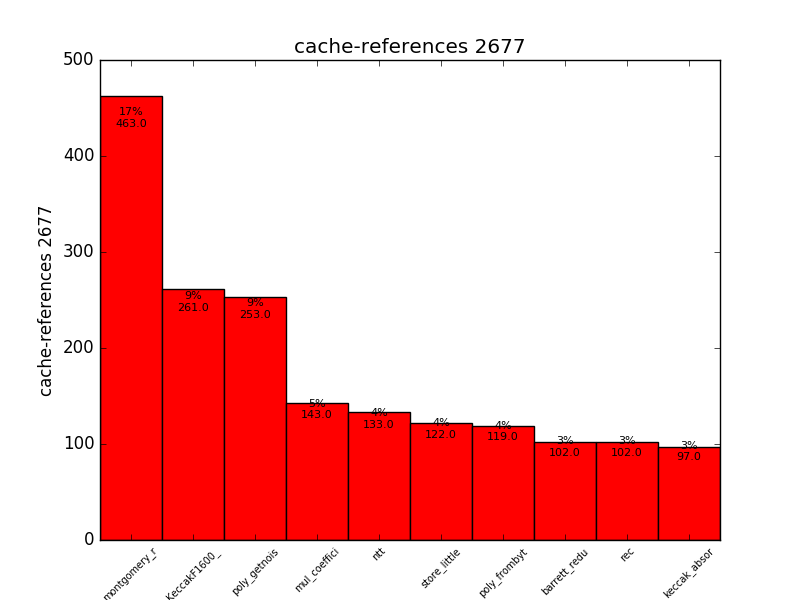
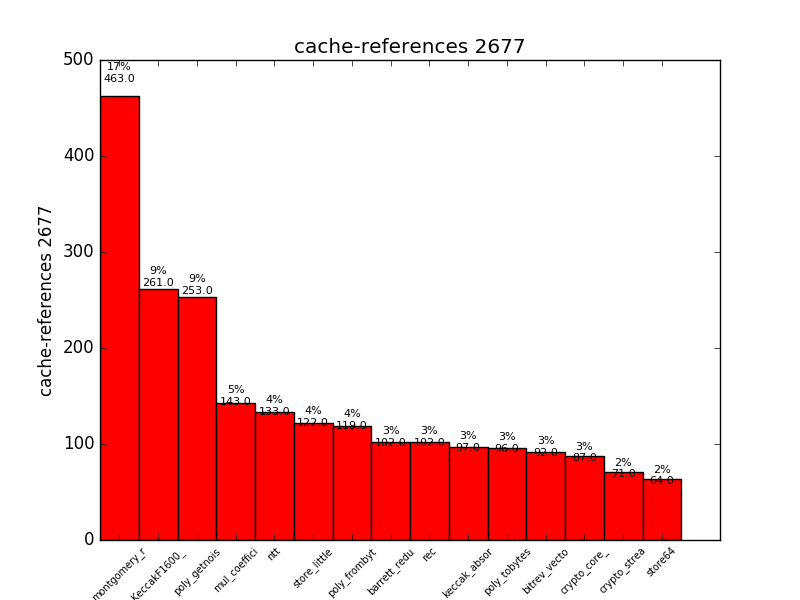
for cache-miss, number of miss divide by number of access per function is plotted

Changed region(s): [[0.0938, 0.15, 0.9062, 1.0], [0.125, 0.09, 0.1562, 0.15]]

diff --git a/extract-data.py b/extract-data.py
@@ -13,7 +13,7 @@ os.system("mkdir "+ Directory_Save_Plots)
 import random
 plt.close('all')
 NUM_RUNS = 5
-MAX_FUNC = 10 # maximum number of functions that we need to analyze
+MAX_FUNC = 15 # maximum number of functions that we need to analyze
 COUNT_EVENT = 1000 # number of events to trigger a sample
 Variants = ["Cycles"
             ,"cache-references"
@@ -70,21 +70,43 @@ def Read_Results (Raw_Data):
 Final_Dict = Read_Results("All_Data")
 
 
-j =0
+#to retrieve number of cache misses/cache references in each function!!!
 for key in Final_Dict.keys():
-    print "----------------------------------------------------------------"
+    if key.__contains__("cache-references"):
+        key_cache_references = key
+
+Total_Events = []
+j =0
+f_write = open("Events",'w')
+for key in Final_Dict.keys():
+    if key.__contains__("cache-misses"):
+        key_cache_misses = key
+    elif key.__contains__("cache-references"):
+        key_cache_references = key
+    f_write.write( "---------------------------------")
     value = []
     x_lable = []
-    print key
-    Total_Events = int(filter(str.isdigit, key))
+    f_write.write(key+"\n")
 
+    Total_Events = []
     for key_i in range(0, min (MAX_FUNC, len(Final_Dict[key]))):
-        print (Final_Dict[key])[key_i][0],((Final_Dict[key])[key_i][1])[0]
+        tmp_str = str ((Final_Dict[key])[key_i][0]) +"  "+ str (((Final_Dict[key])[key_i][1])[0]) +"\n"
+        f_write.write (tmp_str)
         value.append(((Final_Dict[key])[key_i][1])[0])
         x_lable.append(((Final_Dict[key])[key_i][0])[0:12])
+
+        if key.__contains__("cache-misses"):
+            Total_Events.append(((Final_Dict[key_cache_references])[key_i][1])[0])
+        else:
+            Total_Events.append(int(filter(str.isdigit, key)))
     y_lable = key
     title   = key
+  #  Total_Events[key] = int(filter(str.isdigit, key))
+   # if key.__contains__("cache-misses"):
+
     Plot_Bar(value,min(MAX_FUNC,len(Final_Dict[key])),x_lable, y_lable,title,Total_Events)
    # plt.show()
     plt.savefig (Directory_Save_Plots+"/"+(key)+'.png')
    # savefig('foo.png')
+f_write.close()
+

diff --git a/aa.py b/aa.py
@@ -1,16 +1,27 @@
-import numpy as np
 import matplotlib.pyplot as plt
+import numpy as np
 
-def f(t):
-    return np.exp(-t) * np.cos(2*np.pi*t)
+# Simple data to display in various forms
+x = np.linspace(0, 2 * np.pi, 400)
+y = np.sin(x ** 2)
 
-t1 = np.arange(0.0, 5.0, 0.1)
-t2 = np.arange(0.0, 5.0, 0.02)
+plt.close('all')
 
-plt.figure(6)
-plt.subplot(211)
-plt.plot(t1, f(t1), 'bo', t2, f(t2), 'k')
 
-plt.subplot(212)
-plt.plot(t2, np.cos(2*np.pi*t2), 'r--')
+# Four axes, returned as a 2-d array
+f, axarr = plt.subplots(2, 2)
+axarr[0, 0].plot(x, y)
+axarr[0, 0].set_title('Axis [0,0]')
+axarr[0, 1].scatter(x, y)
+axarr[0, 1].set_title('Axis [0,1]')
+axarr[1, 0].plot(x, y ** 2)
+axarr[1, 0].set_title('Axis [1,0]')
+axarr[1, 1].scatter(x, y ** 2)
+axarr[1, 1].set_title('Axis [1,1]')
+# Fine-tune figure; hide x ticks for top plots and y ticks for right plots
+plt.setp([a.get_xticklabels() for a in axarr[0, :]], visible=False)
+plt.setp([a.get_yticklabels() for a in axarr[:, 1]], visible=False)
+
+
+
 plt.show()

diff --git a/bar_chart.py b/bar_chart.py
@@ -23,12 +23,15 @@ def Plot_Bar(value, N,x_lable,y_lable,title, Total_events):
     height = 0.0
     def autolabel(rects):
         # attach some text labels
+        i=0
         for rect in rects:
 
             height = rect.get_height()
             origin_h = height
-            height = (height/Total_events) * 100
-            ax.text(rect.get_x() + rect.get_width()/2., .95*origin_h,
+            base = (Total_events[i])
+            i=i+1
+            height = (height/base) * 100
+            ax.text(rect.get_x() + rect.get_width()/2., 1.05*origin_h,
                     '%s' % str(int(height))+"%\n"+str(origin_h),
                     ha='center', va='center', size=8)
 
